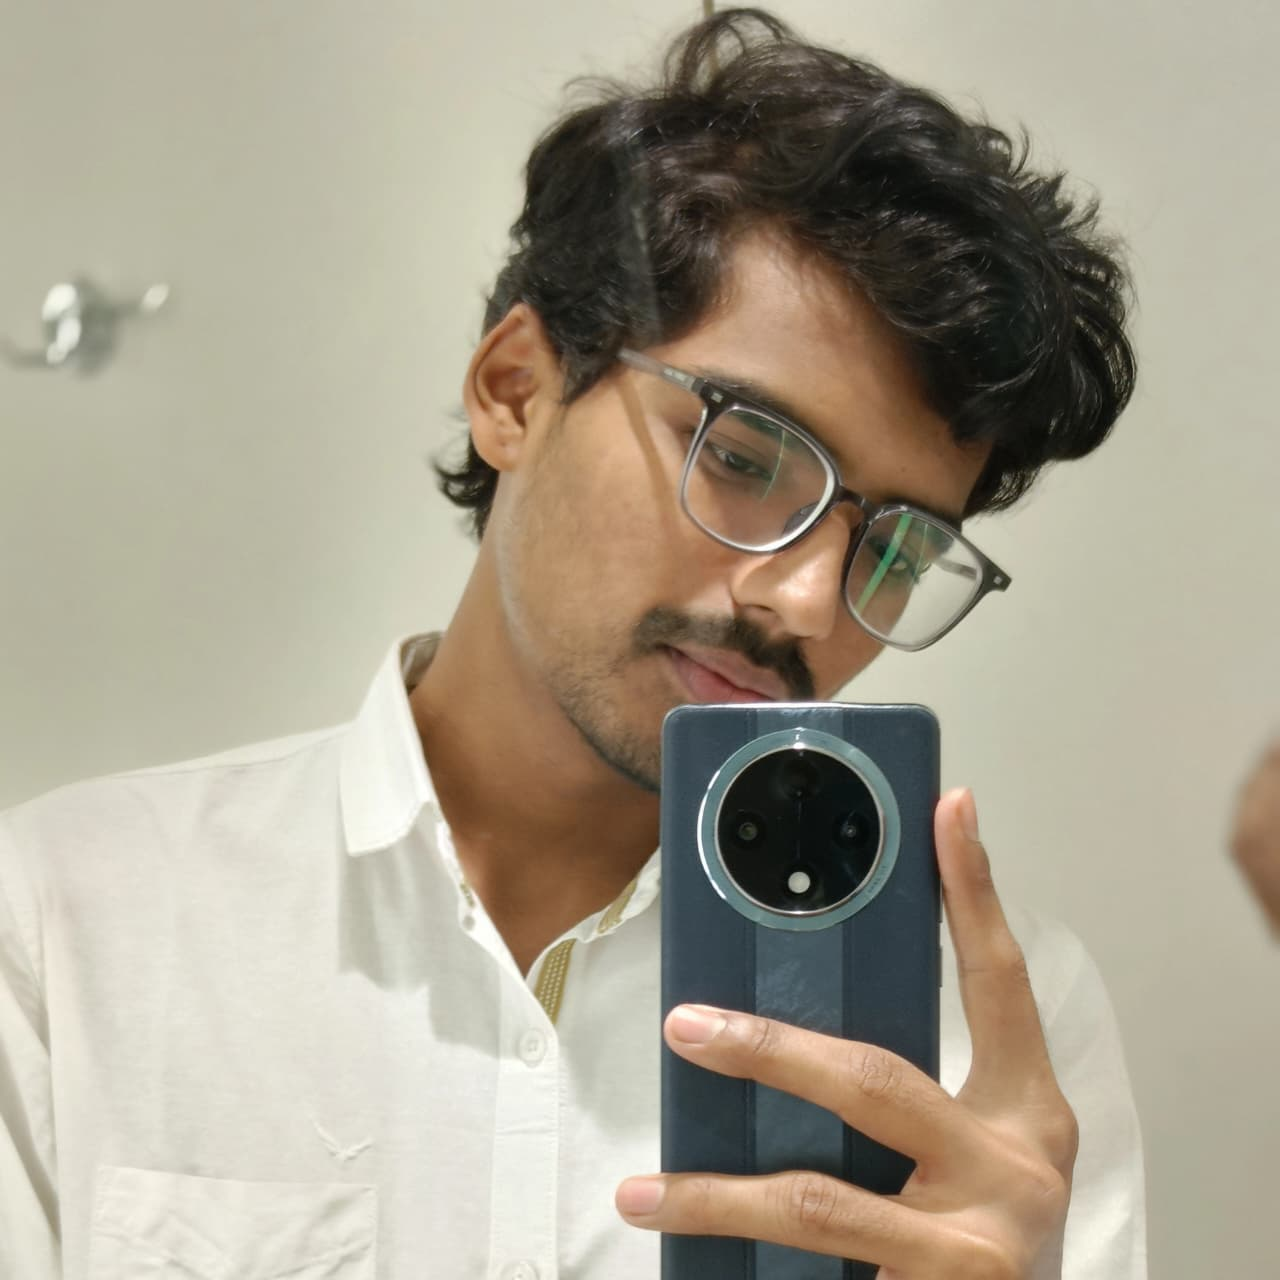
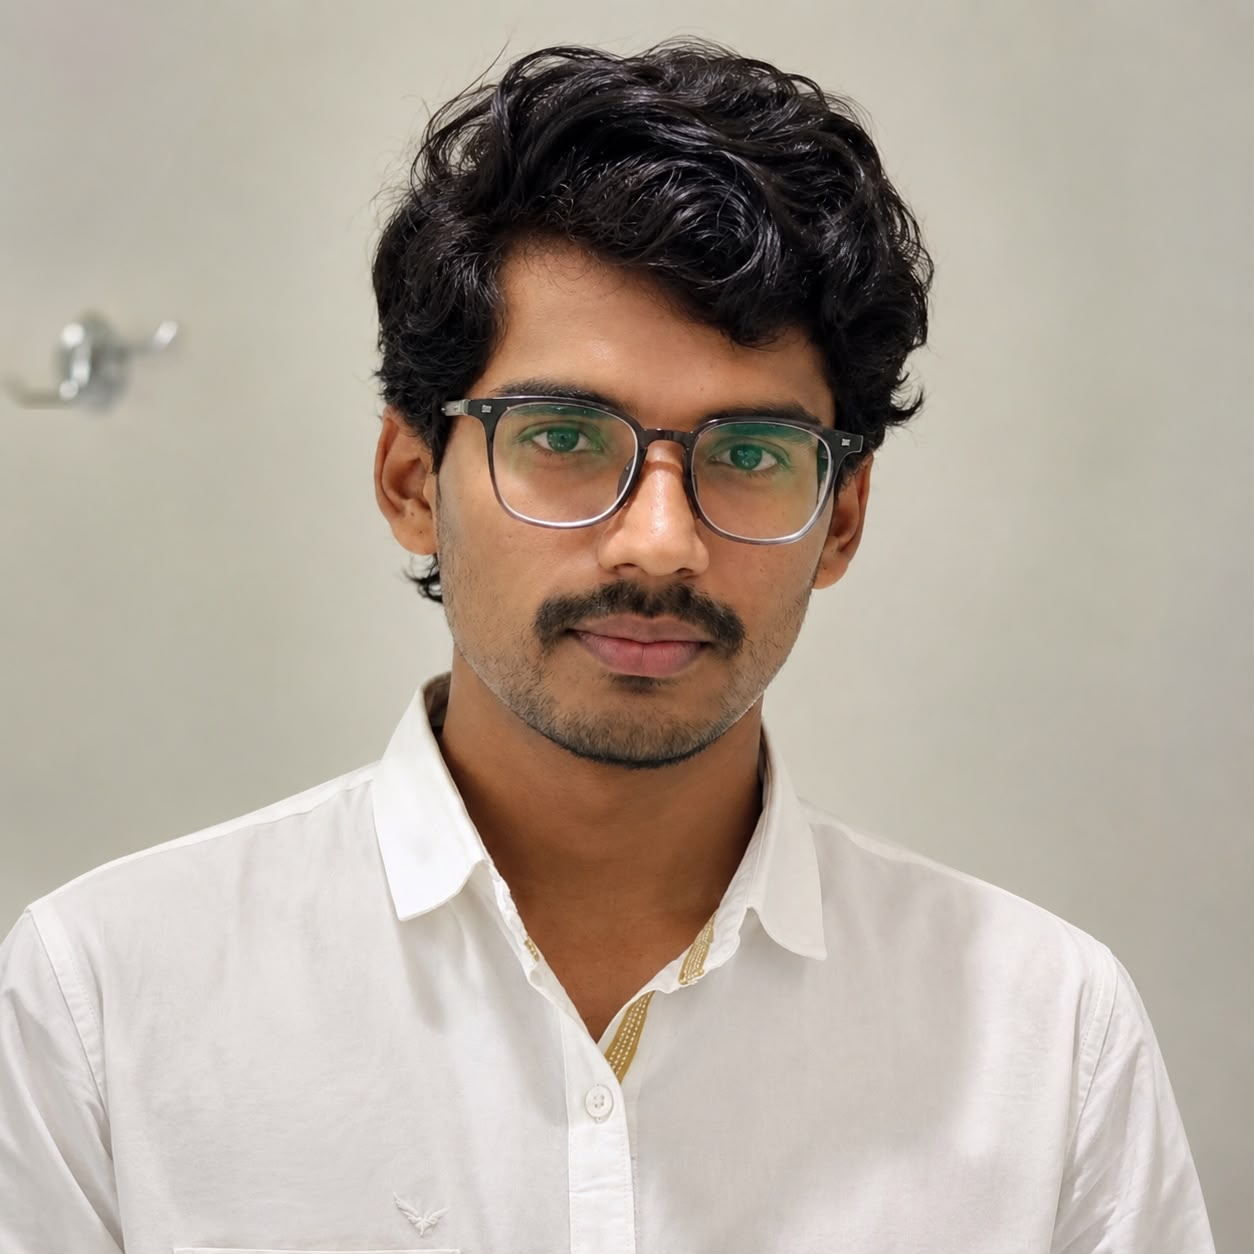
Added option for light theme

diff --git a/CSS/style.css b/CSS/style.css
@@ -46,7 +46,8 @@ section{
     width:100%;
     z-index:1000;
 
-    background:rgba(11,11,11,.8);
+    background:color-mix(in srgb, var(--bg-color) 80%, transparent);
+
     backdrop-filter:blur(12px);
 
     border-bottom:1px solid var(--border-color);
@@ -75,7 +76,7 @@ section{
 
     border:none;
 
-    color:white;
+    color:var(--text-color);
 
     cursor:pointer;
 
@@ -193,7 +194,7 @@ section{
 
 .resume-btn{
     background:var(--primary-color);
-    color:white;
+    color:#fff;
 
     padding:12px 22px;
 
@@ -882,7 +883,7 @@ section{
 
     border-radius:18px;
 
-    background:#111;
+    background:var(--surface-color);
 
     color:var(--text-color);
 
@@ -892,14 +893,14 @@ section{
 
     resize:none;
 
-    transition:.3s;
+    transition:var(--transition);
 
 }
 
 .contact-form input::placeholder,
 .contact-form textarea::placeholder{
 
-    color:#777;
+    color:var(--text-secondary);
 
 }
 
@@ -910,7 +911,9 @@ section{
 
     border-color:var(--primary-color);
 
-    box-shadow:0 0 0 4px rgba(59,130,246,.08);
+    background:var(--surface-hover);
+
+    box-shadow:0 0 0 4px rgba(59,130,246,.12);
 
 }
 
@@ -931,7 +934,6 @@ section{
     transition:.3s ease;
 
 }
-
 
 .form-message.show{
 
@@ -965,7 +967,7 @@ section{
 
     cursor:pointer;
 
-    transition:.3s;
+    transition:var(--transition);
 
 }
 
@@ -973,7 +975,7 @@ section{
 
     transform:translateY(-3px);
 
-    background:#2563eb;
+    background:var(--primary-hover);
 
 }
 
@@ -1172,5 +1174,43 @@ section{
     margin-bottom:35px;
 
     max-width:400px;
+
+}
+
+/* ==============================
+   Theme Button
+============================== */
+
+.theme-toggle{
+
+    width:46px;
+
+    height:46px;
+
+    border:none;
+
+    border-radius:50%;
+
+    background:var(--surface-color);
+
+    color:var(--text-color);
+
+    display:flex;
+
+    align-items:center;
+
+    justify-content:center;
+
+    cursor:pointer;
+
+    transition:var(--transition);
+
+    box-shadow:var(--shadow);
+
+}
+
+.theme-toggle:hover{
+
+    transform:translateY(-2px);
 
 }

diff --git a/js/script.js b/js/script.js
@@ -251,3 +251,59 @@ contactForm.addEventListener("submit", (e)=>{
 
 
 });
+
+// ==============================
+// Theme Toggle
+// ==============================
+
+const themeToggle = document.querySelector("#themeToggle");
+
+const currentTheme = localStorage.getItem("theme");
+
+if(currentTheme){
+
+    document.documentElement.setAttribute("data-theme", currentTheme);
+
+    updateIcon(currentTheme);
+
+}
+
+themeToggle.addEventListener("click",()=>{
+
+    const theme =
+        document.documentElement.getAttribute("data-theme");
+
+    if(theme === "light"){
+
+        document.documentElement.removeAttribute("data-theme");
+
+        localStorage.setItem("theme","dark");
+
+        updateIcon("dark");
+
+    }else{
+
+        document.documentElement.setAttribute("data-theme","light");
+
+        localStorage.setItem("theme","light");
+
+        updateIcon("light");
+
+    }
+
+});
+
+
+function updateIcon(theme){
+
+    themeToggle.innerHTML =
+
+        theme === "light"
+
+        ? '<i data-lucide="sun"></i>'
+
+        : '<i data-lucide="moon"></i>';
+
+    lucide.createIcons();
+
+}

diff --git a/CSS/variables.css b/CSS/variables.css
@@ -48,3 +48,34 @@
 
     --transition: .3s ease;
 }
+
+[data-theme="light"]{
+
+    /* ===== COLORS ===== */
+
+    --bg-color:#F8FAFC;
+
+    --surface-color:#FFFFFF;
+
+    --surface-hover:#F1F5F9;
+
+    --primary-color:#2563EB;
+
+    --primary-hover:#1D4ED8;
+
+    --text-color:#111827;
+
+    --text-secondary:#6B7280;
+
+    --border-color:#E5E7EB;
+
+    --success-color:#16A34A;
+
+    --danger-color:#DC2626;
+
+    /* ===== SHADOW ===== */
+
+    --shadow:
+        0 10px 30px rgba(15,23,42,.08);
+
+}

diff --git a/index.html b/index.html
@@ -107,6 +107,12 @@
         Resume
 
     </a>
+    
+    <button class="theme-toggle" id="themeToggle">
+
+    <i data-lucide="moon"></i>
+
+</button>
 
 
     <!-- Mobile Menu Button -->
